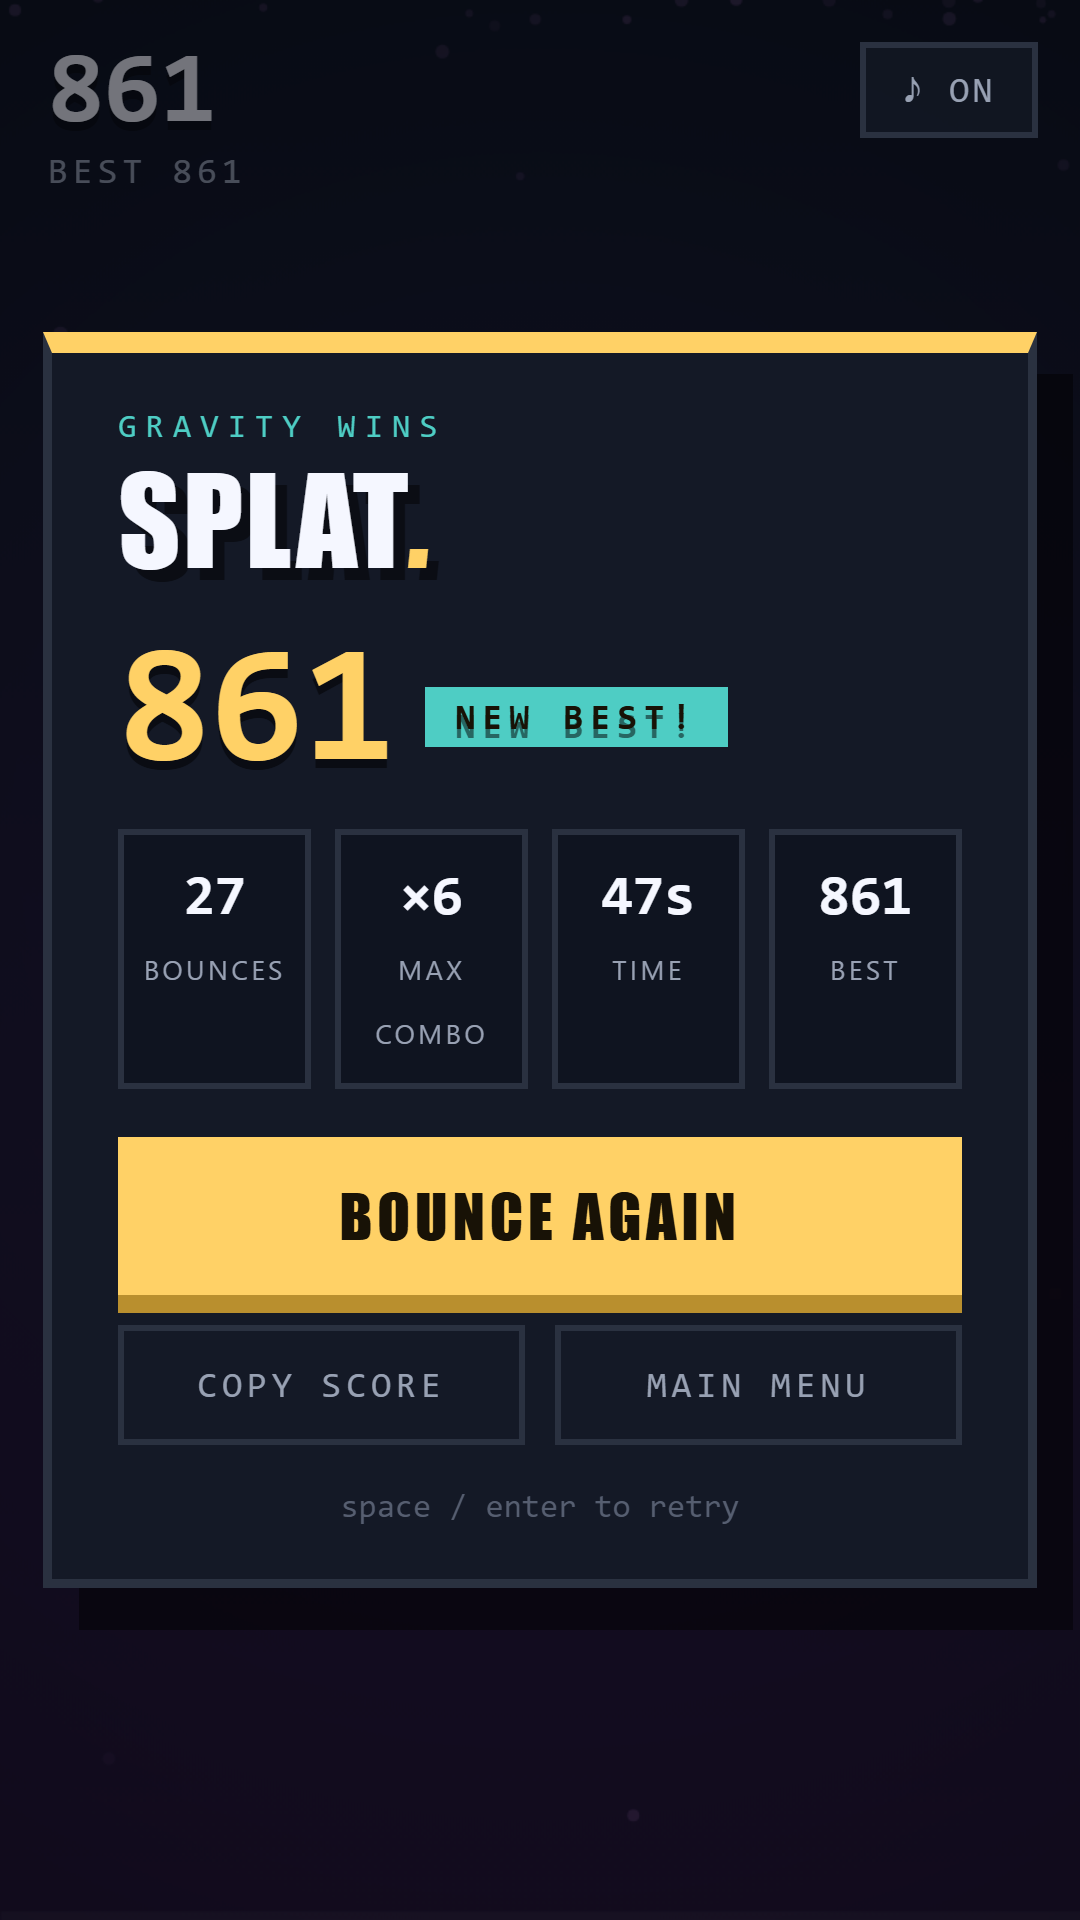
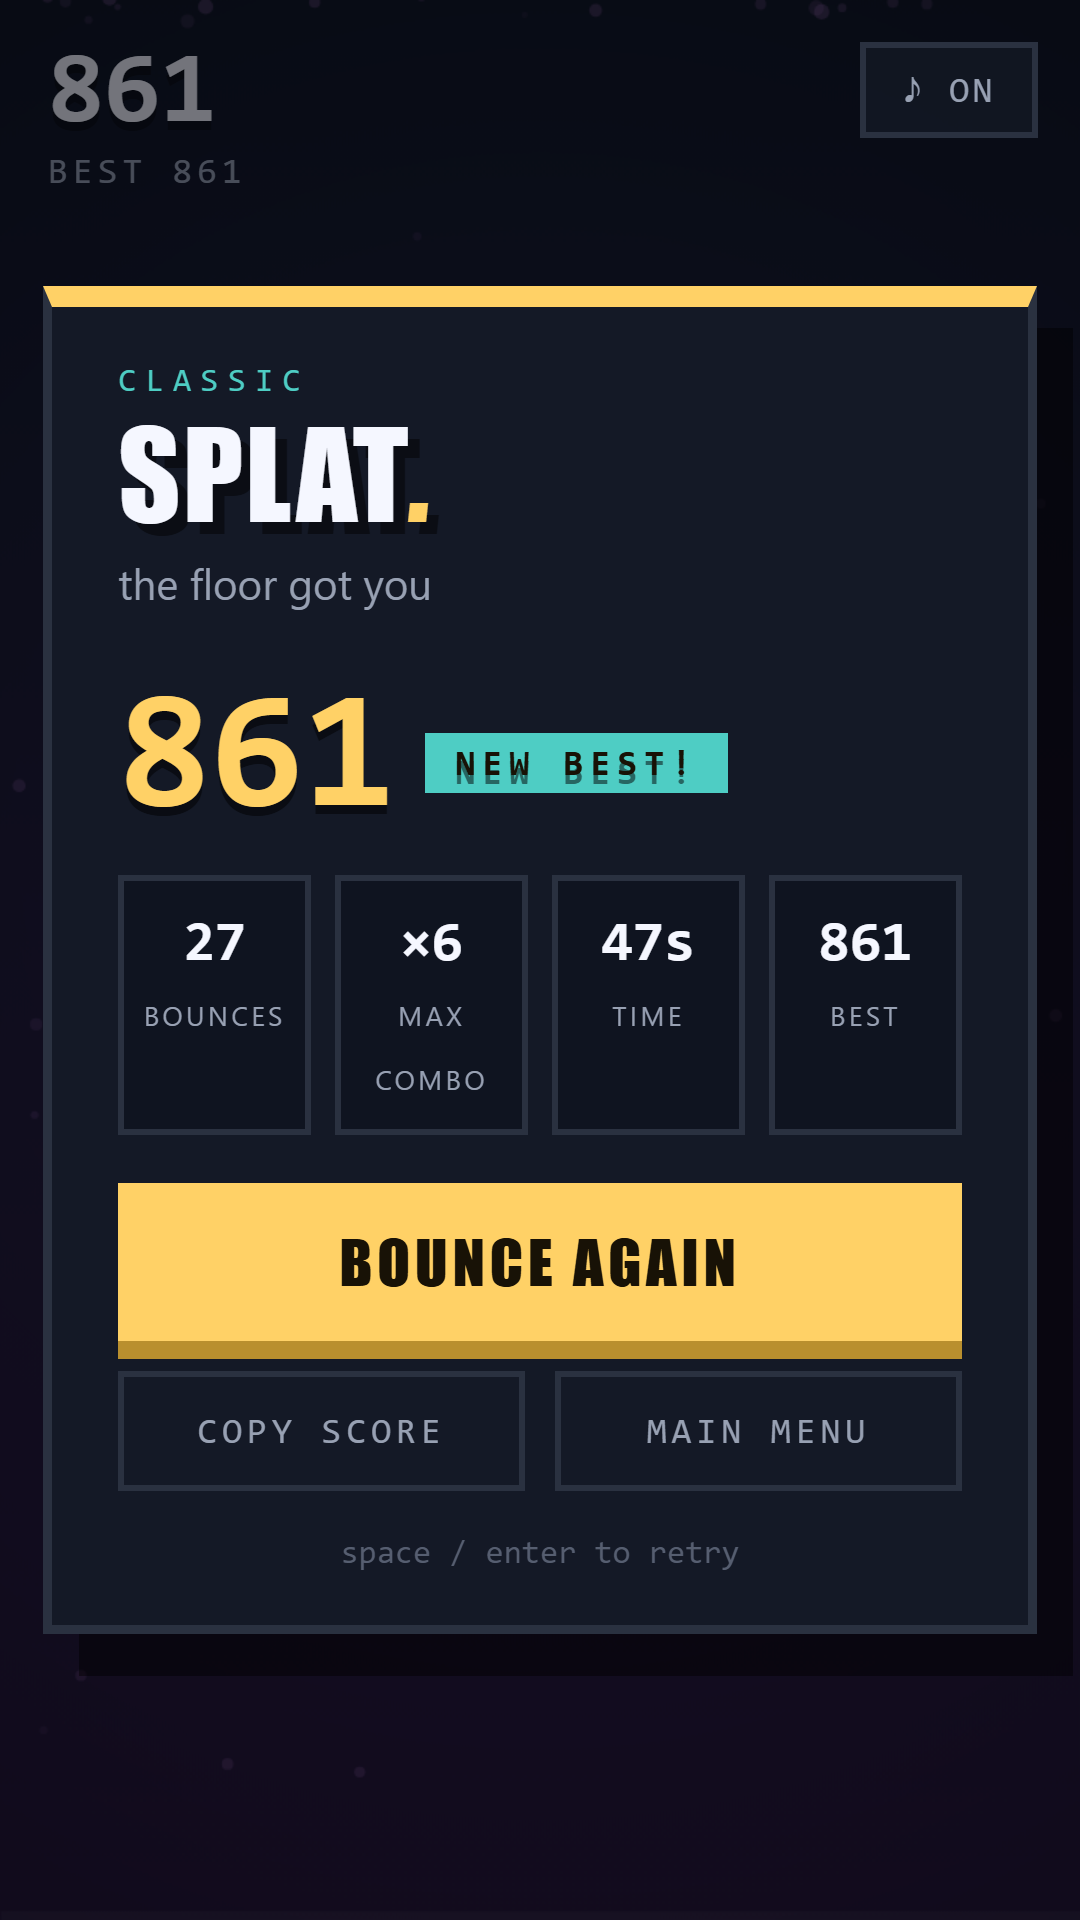
[ui] QA KU-05/KU-02: cause-of-death line on the over panel (mode eyebrow); louder combo cue and mode tag on phones

Changed region(s): [[0.0306, 0.125, 0.9778, 0.875], [0.6722, 0.4062, 0.8861, 0.5312], [0.0917, 0.4375, 0.1222, 0.4688]]

diff --git a/index.html b/index.html
@@ -218,7 +218,10 @@ body.noDisplay h1, body.noDisplay .modeBtn, body.noDisplay button.big{font-weigh
   /* phones put the front camera where the centred combo meter sat: park it
      under the score column instead */
   #comboBox{top:96px; left:16px; transform:none; text-align:left;}
-  #comboBarWrap{margin:5px 0 0;}
+  /* KU-02: a louder expiry cue and mode tag on compact screens */
+  #combo{font-size:34px;}
+  #comboBarWrap{width:110px; height:7px; margin:5px 0 0; background:rgba(255,255,255,.28);}
+  .modeTag{font-size:11px; background:rgba(10,13,20,.85);}
 }
 @media (max-height: 720px){
   .panel{padding:18px 22px 18px;}
@@ -348,6 +351,7 @@ body.noDisplay h1, body.noDisplay .modeBtn, body.noDisplay button.big{font-weigh
   <div class="panel">
     <p class="eyebrow" id="overEyebrow">GRAVITY WINS</p>
     <h1 id="overTitle">SPLAT<em>.</em></h1>
+    <p class="tag" id="overCause">the floor got you</p>
     <div id="finalScore"><span id="finalScoreVal">0</span><span id="newBest">NEW BEST!</span></div>
     <div class="stats">
       <div class="stat"><b id="finalBounces">0</b><span>BOUNCES</span></div>
@@ -886,6 +890,7 @@ const DOM = {
   scoreUnit: byId('scoreUnit'),
   modeTag: byId('modeTag'),
   overEyebrow: byId('overEyebrow'),
+  overCause: byId('overCause'),
   toasts: byId('toasts'),
   toast: byId('toast'),
   toastName: byId('toastName'),
@@ -1172,7 +1177,7 @@ function createGame(){
     hitStop: 0,       // Phase 2 hit-stop
 
     /* scoring (SCORE-*) */
-    score: 0, best: 0, newBest: false,
+    score: 0, best: 0, newBest: false, deathCause: null,
     combo: 0, comboTimer: 0, comboWindowNow: 0, maxCombo: 0, bounces: 0,
     starsRun: 0, shieldSaves: 0,      // Phase 4 achievement counters
 
@@ -1225,6 +1230,7 @@ function resetRun(g){
   g.maxCombo = 0; g.bounces = 0;
   g.starsRun = 0; g.shieldSaves = 0;
   g.newBest = false;
+  g.deathCause = null;
   g.elapsed = 0;
   g.lastBounceAt = g.totalT - 9;      // first bounce of a run is always full charge
   g.timeScale = 1; g.deathT = 0; g.panelShown = false; g.hitStop = 0;
@@ -1822,9 +1828,19 @@ function showPause(g){
   focusEl(DOM.resumeBtn);
 }
 
+/* KU-05: the panel says what ended the run, in plain words */
+const DEATH_LINES = {
+  floor: 'the floor got you',
+  saw: 'a saw got you',
+  spike: 'a spike dropped on you',
+  drone: 'the drone caught you',
+  lava: 'the lava caught up',
+};
+
 function fillGameOver(g){
-  DOM.overEyebrow.textContent = g.mode === 'climb' ? 'THE LAVA WINS'
-    : g.daily ? 'DAILY ' + g.daily.key : 'GRAVITY WINS';
+  DOM.overEyebrow.textContent = g.mode === 'climb' ? 'CLIMB'
+    : g.daily ? 'DAILY ' + g.daily.key : 'CLASSIC';
+  DOM.overCause.textContent = DEATH_LINES[g.deathCause] || DEATH_LINES.floor;
   DOM.finalScoreVal.textContent = g.score;
   DOM.newBest.style.display = g.newBest ? 'inline-block' : 'none';
   DOM.finalBounces.textContent = g.bounces;
@@ -2066,9 +2082,10 @@ function startDaily(g){ startRun(g, 'classic', true); }
 function startClimb(g){ startRun(g, 'climb', false); }
 
 /* CORE-04 / HAZ-03 both end here. The panel is delayed so the death lands first. */
-function die(g){
+function die(g, cause){
   if (g.ball.dead) return;
   g.ball.dead = true;
+  g.deathCause = cause || 'floor';
   g.state = 'dying';
   g.deathT = 0;
   g.panelShown = false;
@@ -2327,7 +2344,7 @@ function climbUpdate(g, dt){
       const saw = band.saws[s];
       saw.rot += saw.rotV * dt;
       if (b.dead) continue;
-      const strike = hazardStrike(g, saw.x, saw.y, saw.r);
+      const strike = hazardStrike(g, saw.x, saw.y, saw.r, 'saw');
       if (strike === 'dead') return true;
       /* as in classic: a shield save destroys the hazard - otherwise the still
        * touching saw would kill on the very next frame (playtest bug) */
@@ -2356,7 +2373,7 @@ function climbUpdate(g, dt){
   }
 
   if (!b.dead && b.y + b.r >= c.lavaY){
-    die(g);
+    die(g, 'lava');
     return true;
   }
 
@@ -2704,12 +2721,12 @@ function consumeShieldAt(g, x, y){
 
 /* Shared by moving hazards and climb-mode band saws: shield absorbs, else death.
  * Returns 'shield' | 'dead' | null (no contact). */
-function hazardStrike(g, x, y, r){
+function hazardStrike(g, x, y, r, cause){
   const b = g.ball;
   const gap = Math.hypot(x - b.x, y - b.y) - (r + b.r * CFG.hazardKillPad);
   if (gap >= 0) return null;
   if (g.shield){ consumeShieldAt(g, x, y); return 'shield'; }
-  die(g);
+  die(g, cause);
   return 'dead';
 }
 
@@ -2724,7 +2741,7 @@ function resolveContact(g, h){
   const gap = Math.hypot(h.x - b.x, h.cy - b.y) - (h.r + b.r * CFG.hazardKillPad);
 
   if (gap < 0){
-    if (hazardStrike(g, h.x, h.cy, h.r) === 'shield') h.gone = true;
+    if (hazardStrike(g, h.x, h.cy, h.r, h.kind) === 'shield') h.gone = true;
     return;
   }
   /* Phase 2 near-miss: gap was inside the margin last frame and is now widening */
@@ -3771,7 +3788,7 @@ function update(g, dtReal){
         if (g.comboTimer <= 0) g.combo = 0;
       }
     } else {
-      if (ballHitFloor(g)){ die(g); return; }      // CORE-04
+      if (ballHitFloor(g)){ die(g, 'floor'); return; }      // CORE-04
       if (g.combo > 0){
         g.comboTimer -= physDt;
         if (g.comboTimer <= 0) g.combo = 0;        // SCORE-02 expiry

diff --git a/tests/harness.html b/tests/harness.html
@@ -856,6 +856,23 @@ async function main(){
   eq(doc.getElementById('finalBest').textContent, '1234', 'shows the best');
   eq(doc.getElementById('newBest').style.display, 'inline-block', 'shows the NEW BEST flag');
   eq(doc.getElementById('retryBtn'), doc.activeElement, 'focus lands on Retry (A11Y-02)');
+  eq(doc.getElementById('overCause').textContent, 'the floor got you', 'the over panel names the cause of death (KU-05)');
+  eq(doc.getElementById('overEyebrow').textContent, 'CLASSIC', 'the over eyebrow names the mode');
+  const causes = [['saw', 'a saw got you'], ['spike', 'a spike dropped on you'], ['drone', 'the drone caught you']];
+  for (const c of causes){
+    K.startGame(G); G.panelShown = false;
+    K.die(G, c[0]);
+    G.overAt = win.performance.now() - 100000;
+    K.updateFlow(G, 1); K.updateFlow(G, 0);
+    eq(doc.getElementById('overCause').textContent, c[1], 'cause line: ' + c[0] + ' (KU-05)');
+  }
+  K.startClimb(G); G.panelShown = false;
+  eq(G.deathCause, null, 'a fresh run clears the previous cause');
+  K.die(G, 'lava');
+  G.overAt = win.performance.now() - 100000;
+  K.updateFlow(G, 1); K.updateFlow(G, 0);
+  eq(doc.getElementById('overCause').textContent, 'the lava caught up', 'cause line: lava (KU-05)');
+  eq(doc.getElementById('overEyebrow').textContent, 'CLIMB', 'the climb over eyebrow names the mode');
 
   /* ===================================================== 25. HUD (UI-03) */
   sec('25. HUD (UI-03, SCORE-04)');
@@ -1502,9 +1519,14 @@ async function main(){
   ok(cbR.left < 40 && cbR.top >= sbR.bottom - 1,
      'on phone widths the combo meter sits top-left below the score column',
      cbR.left + ',' + cbR.top + ' vs score bottom ' + sbR.bottom);
+  eq(win.getComputedStyle(doc.getElementById('combo')).fontSize, '34px', 'phone combo digits scale up (KU-02)');
+  eq(win.getComputedStyle(doc.getElementById('comboBarWrap')).height, '7px', 'phone combo bar thickens (KU-02)');
+  eq(win.getComputedStyle(doc.getElementById('modeTag')).fontSize, '11px', 'phone mode tag scales up (KU-02)');
   f.style.width = fw; f.style.height = fh;
   await sleep(120);
   win.dispatchEvent(new win.Event('resize'));
+  eq(win.getComputedStyle(doc.getElementById('combo')).fontSize, '30px', 'desktop combo digits stay as before (KU-02)');
+  eq(win.getComputedStyle(doc.getElementById('comboBarWrap')).height, '5px', 'desktop combo bar stays as before (KU-02)');
   ok(doc.getElementById('toast').classList.contains('toast'), 'the badge toast is a CSS-animated element');
   ok(doc.documentElement.style.getPropertyValue('--toast-in').length > 0, 'CFG drives the toast timing');
   if (doc.activeElement && doc.activeElement.blur) doc.activeElement.blur();

diff --git a/src/entities.js b/src/entities.js
@@ -90,12 +90,12 @@ function consumeShieldAt(g, x, y){
 
 /* Shared by moving hazards and climb-mode band saws: shield absorbs, else death.
  * Returns 'shield' | 'dead' | null (no contact). */
-export function hazardStrike(g, x, y, r){
+export function hazardStrike(g, x, y, r, cause){
   const b = g.ball;
   const gap = Math.hypot(x - b.x, y - b.y) - (r + b.r * CFG.hazardKillPad);
   if (gap >= 0) return null;
   if (g.shield){ consumeShieldAt(g, x, y); return 'shield'; }
-  die(g);
+  die(g, cause);
   return 'dead';
 }
 
@@ -110,7 +110,7 @@ function resolveContact(g, h){
   const gap = Math.hypot(h.x - b.x, h.cy - b.y) - (h.r + b.r * CFG.hazardKillPad);
 
   if (gap < 0){
-    if (hazardStrike(g, h.x, h.cy, h.r) === 'shield') h.gone = true;
+    if (hazardStrike(g, h.x, h.cy, h.r, h.kind) === 'shield') h.gone = true;
     return;
   }
   /* Phase 2 near-miss: gap was inside the margin last frame and is now widening */

diff --git a/src/hud.js b/src/hud.js
@@ -59,9 +59,19 @@ export function showPause(g){
   focusEl(DOM.resumeBtn);
 }
 
+/* KU-05: the panel says what ended the run, in plain words */
+const DEATH_LINES = {
+  floor: 'the floor got you',
+  saw: 'a saw got you',
+  spike: 'a spike dropped on you',
+  drone: 'the drone caught you',
+  lava: 'the lava caught up',
+};
+
 export function fillGameOver(g){
-  DOM.overEyebrow.textContent = g.mode === 'climb' ? 'THE LAVA WINS'
-    : g.daily ? 'DAILY ' + g.daily.key : 'GRAVITY WINS';
+  DOM.overEyebrow.textContent = g.mode === 'climb' ? 'CLIMB'
+    : g.daily ? 'DAILY ' + g.daily.key : 'CLASSIC';
+  DOM.overCause.textContent = DEATH_LINES[g.deathCause] || DEATH_LINES.floor;
   DOM.finalScoreVal.textContent = g.score;
   DOM.newBest.style.display = g.newBest ? 'inline-block' : 'none';
   DOM.finalBounces.textContent = g.bounces;

diff --git a/src/state.js b/src/state.js
@@ -47,7 +47,7 @@ export function createGame(){
     hitStop: 0,       // Phase 2 hit-stop
 
     /* scoring (SCORE-*) */
-    score: 0, best: 0, newBest: false,
+    score: 0, best: 0, newBest: false, deathCause: null,
     combo: 0, comboTimer: 0, comboWindowNow: 0, maxCombo: 0, bounces: 0,
     starsRun: 0, shieldSaves: 0,      // Phase 4 achievement counters
 
@@ -100,6 +100,7 @@ export function resetRun(g){
   g.maxCombo = 0; g.bounces = 0;
   g.starsRun = 0; g.shieldSaves = 0;
   g.newBest = false;
+  g.deathCause = null;
   g.elapsed = 0;
   g.lastBounceAt = g.totalT - 9;      // first bounce of a run is always full charge
   g.timeScale = 1; g.deathT = 0; g.panelShown = false; g.hitStop = 0;

diff --git a/src/climb.js b/src/climb.js
@@ -157,7 +157,7 @@ export function climbUpdate(g, dt){
       const saw = band.saws[s];
       saw.rot += saw.rotV * dt;
       if (b.dead) continue;
-      const strike = hazardStrike(g, saw.x, saw.y, saw.r);
+      const strike = hazardStrike(g, saw.x, saw.y, saw.r, 'saw');
       if (strike === 'dead') return true;
       /* as in classic: a shield save destroys the hazard - otherwise the still
        * touching saw would kill on the very next frame (playtest bug) */
@@ -186,7 +186,7 @@ export function climbUpdate(g, dt){
   }
 
   if (!b.dead && b.y + b.r >= c.lavaY){
-    die(g);
+    die(g, 'lava');
     return true;
   }
 

diff --git a/src/styles.css b/src/styles.css
@@ -192,7 +192,10 @@ body.noDisplay h1, body.noDisplay .modeBtn, body.noDisplay button.big{font-weigh
   /* phones put the front camera where the centred combo meter sat: park it
      under the score column instead */
   #comboBox{top:96px; left:16px; transform:none; text-align:left;}
-  #comboBarWrap{margin:5px 0 0;}
+  /* KU-02: a louder expiry cue and mode tag on compact screens */
+  #combo{font-size:34px;}
+  #comboBarWrap{width:110px; height:7px; margin:5px 0 0; background:rgba(255,255,255,.28);}
+  .modeTag{font-size:11px; background:rgba(10,13,20,.85);}
 }
 @media (max-height: 720px){
   .panel{padding:18px 22px 18px;}

diff --git a/dev.html b/dev.html
@@ -137,6 +137,7 @@ window.addEventListener('error', function(e){
   <div class="panel">
     <p class="eyebrow" id="overEyebrow">GRAVITY WINS</p>
     <h1 id="overTitle">SPLAT<em>.</em></h1>
+    <p class="tag" id="overCause">the floor got you</p>
     <div id="finalScore"><span id="finalScoreVal">0</span><span id="newBest">NEW BEST!</span></div>
     <div class="stats">
       <div class="stat"><b id="finalBounces">0</b><span>BOUNCES</span></div>

diff --git a/src/shell.html b/src/shell.html
@@ -137,6 +137,7 @@ window.addEventListener('error', function(e){
   <div class="panel">
     <p class="eyebrow" id="overEyebrow">GRAVITY WINS</p>
     <h1 id="overTitle">SPLAT<em>.</em></h1>
+    <p class="tag" id="overCause">the floor got you</p>
     <div id="finalScore"><span id="finalScoreVal">0</span><span id="newBest">NEW BEST!</span></div>
     <div class="stats">
       <div class="stat"><b id="finalBounces">0</b><span>BOUNCES</span></div>

diff --git a/src/flow.js b/src/flow.js
@@ -51,9 +51,10 @@ export function startDaily(g){ startRun(g, 'classic', true); }
 export function startClimb(g){ startRun(g, 'climb', false); }
 
 /* CORE-04 / HAZ-03 both end here. The panel is delayed so the death lands first. */
-export function die(g){
+export function die(g, cause){
   if (g.ball.dead) return;
   g.ball.dead = true;
+  g.deathCause = cause || 'floor';
   g.state = 'dying';
   g.deathT = 0;
   g.panelShown = false;

diff --git a/src/game.js b/src/game.js
@@ -100,7 +100,7 @@ export function update(g, dtReal){
         if (g.comboTimer <= 0) g.combo = 0;
       }
     } else {
-      if (ballHitFloor(g)){ die(g); return; }      // CORE-04
+      if (ballHitFloor(g)){ die(g, 'floor'); return; }      // CORE-04
       if (g.combo > 0){
         g.comboTimer -= physDt;
         if (g.comboTimer <= 0) g.combo = 0;        // SCORE-02 expiry

diff --git a/src/dom.js b/src/dom.js
@@ -31,6 +31,7 @@ export const DOM = {
   scoreUnit: byId('scoreUnit'),
   modeTag: byId('modeTag'),
   overEyebrow: byId('overEyebrow'),
+  overCause: byId('overCause'),
   toasts: byId('toasts'),
   toast: byId('toast'),
   toastName: byId('toastName'),
